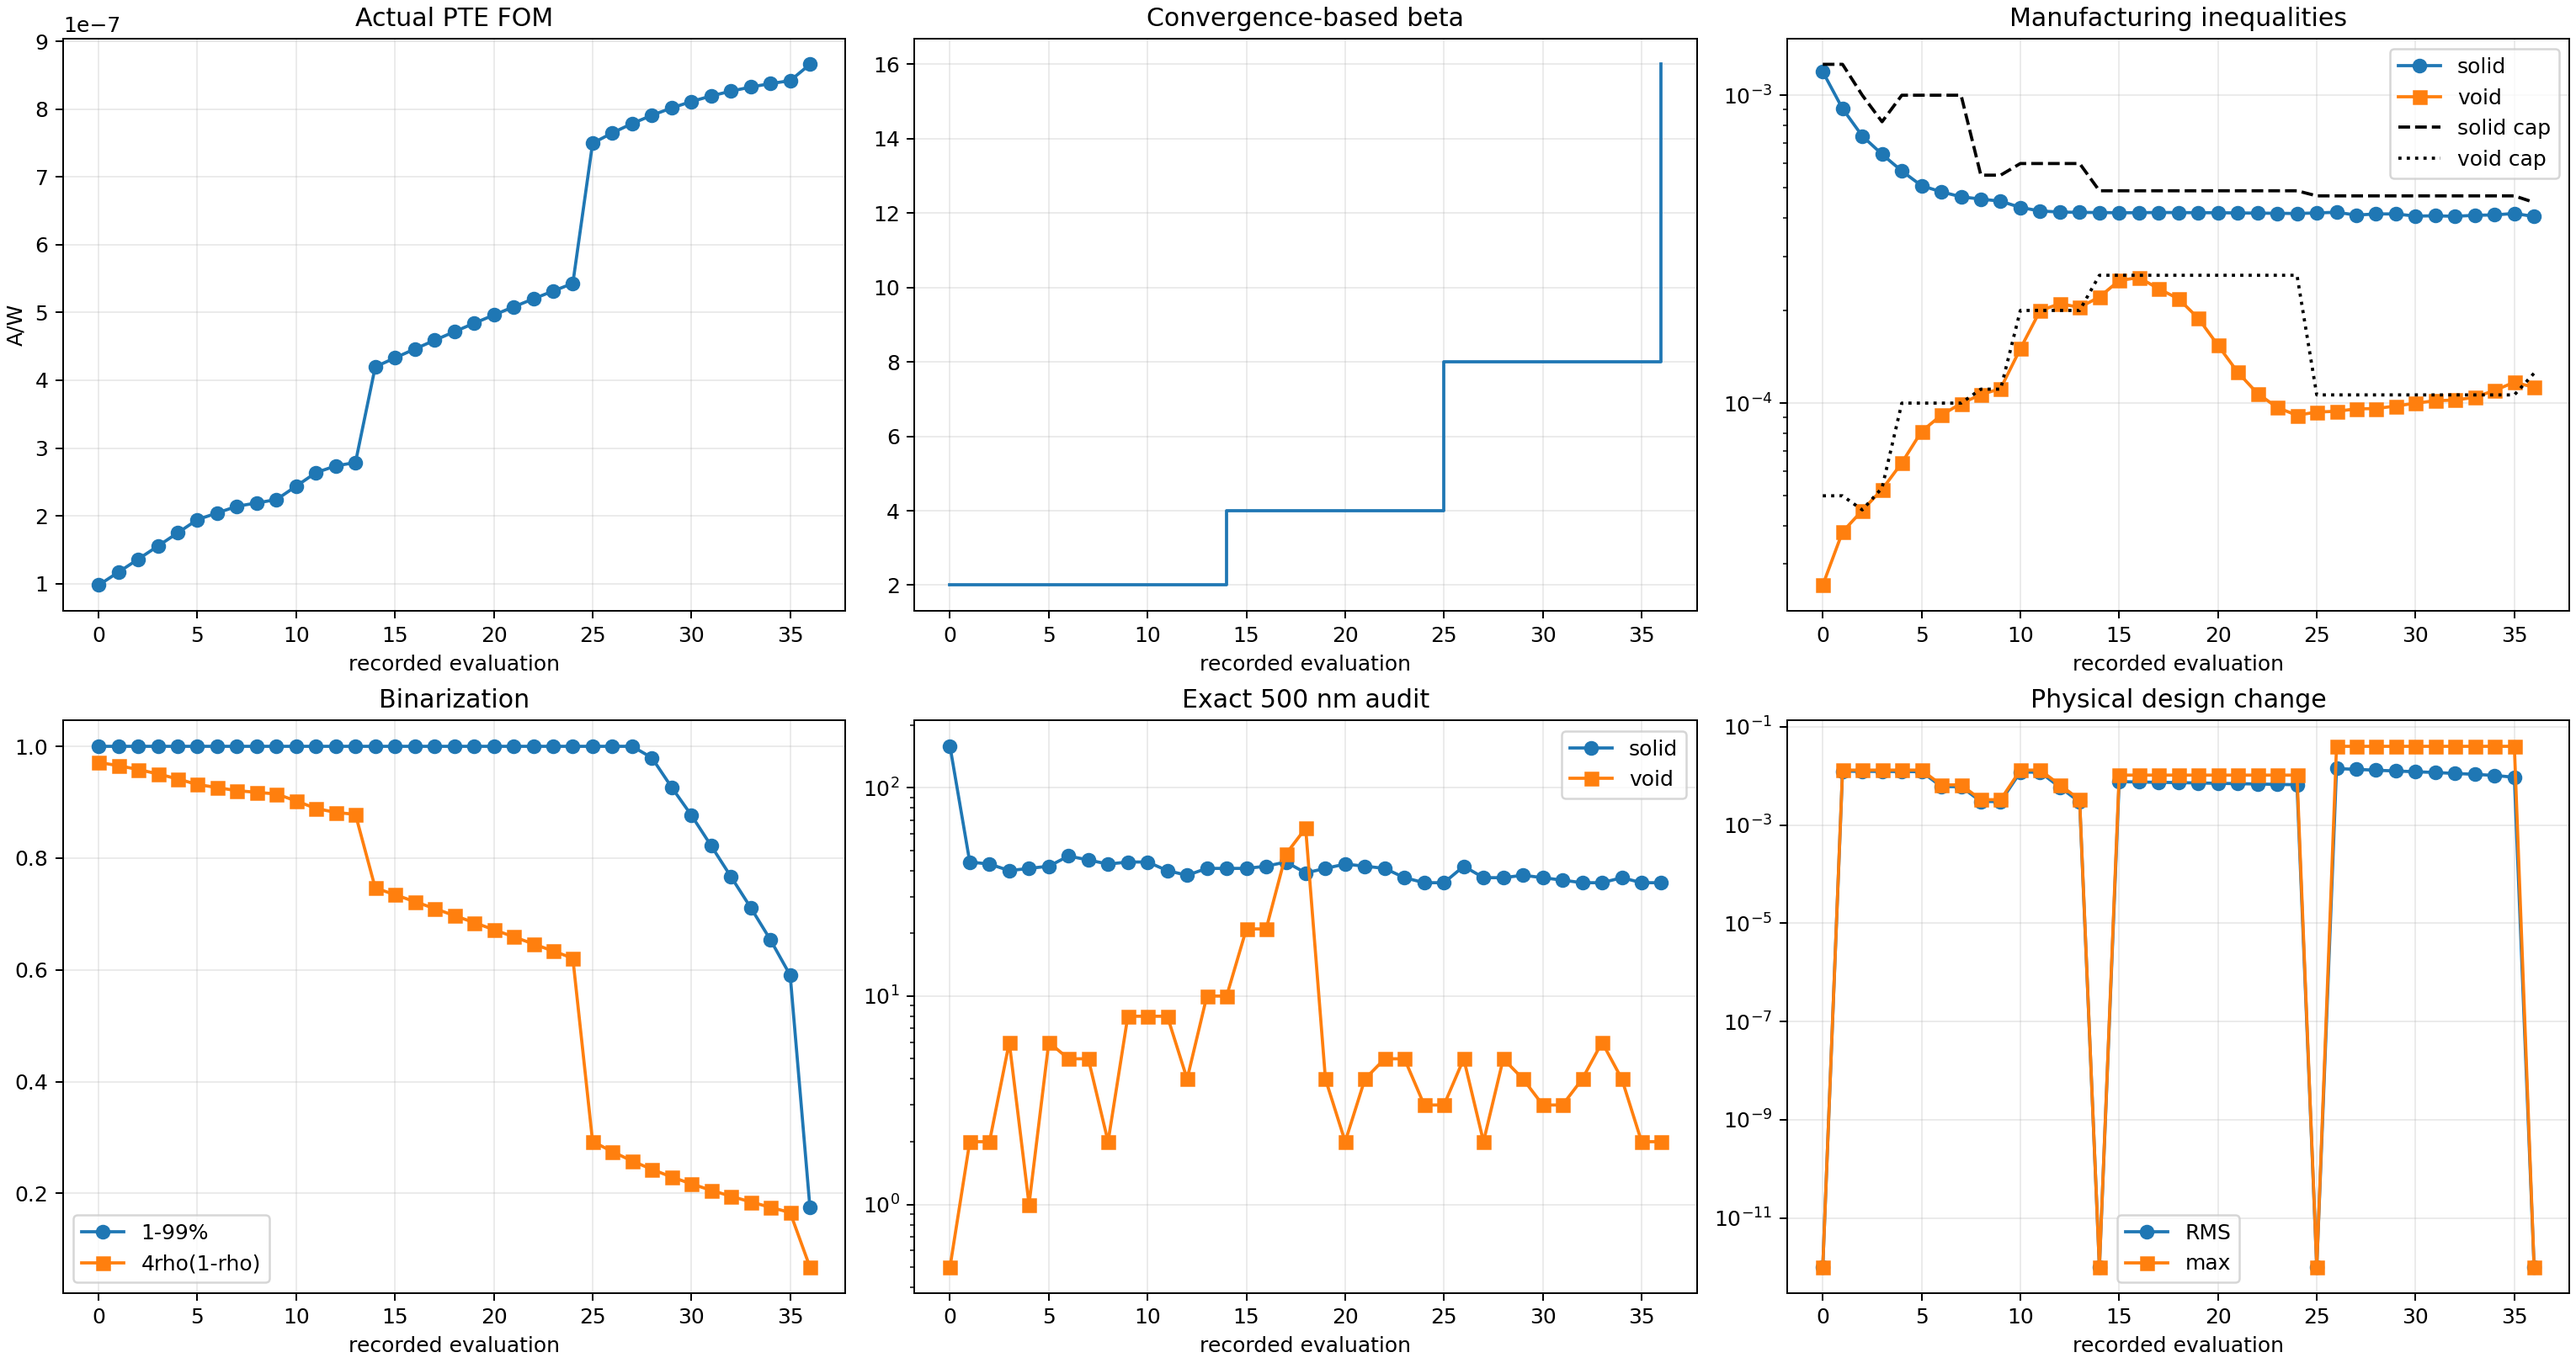
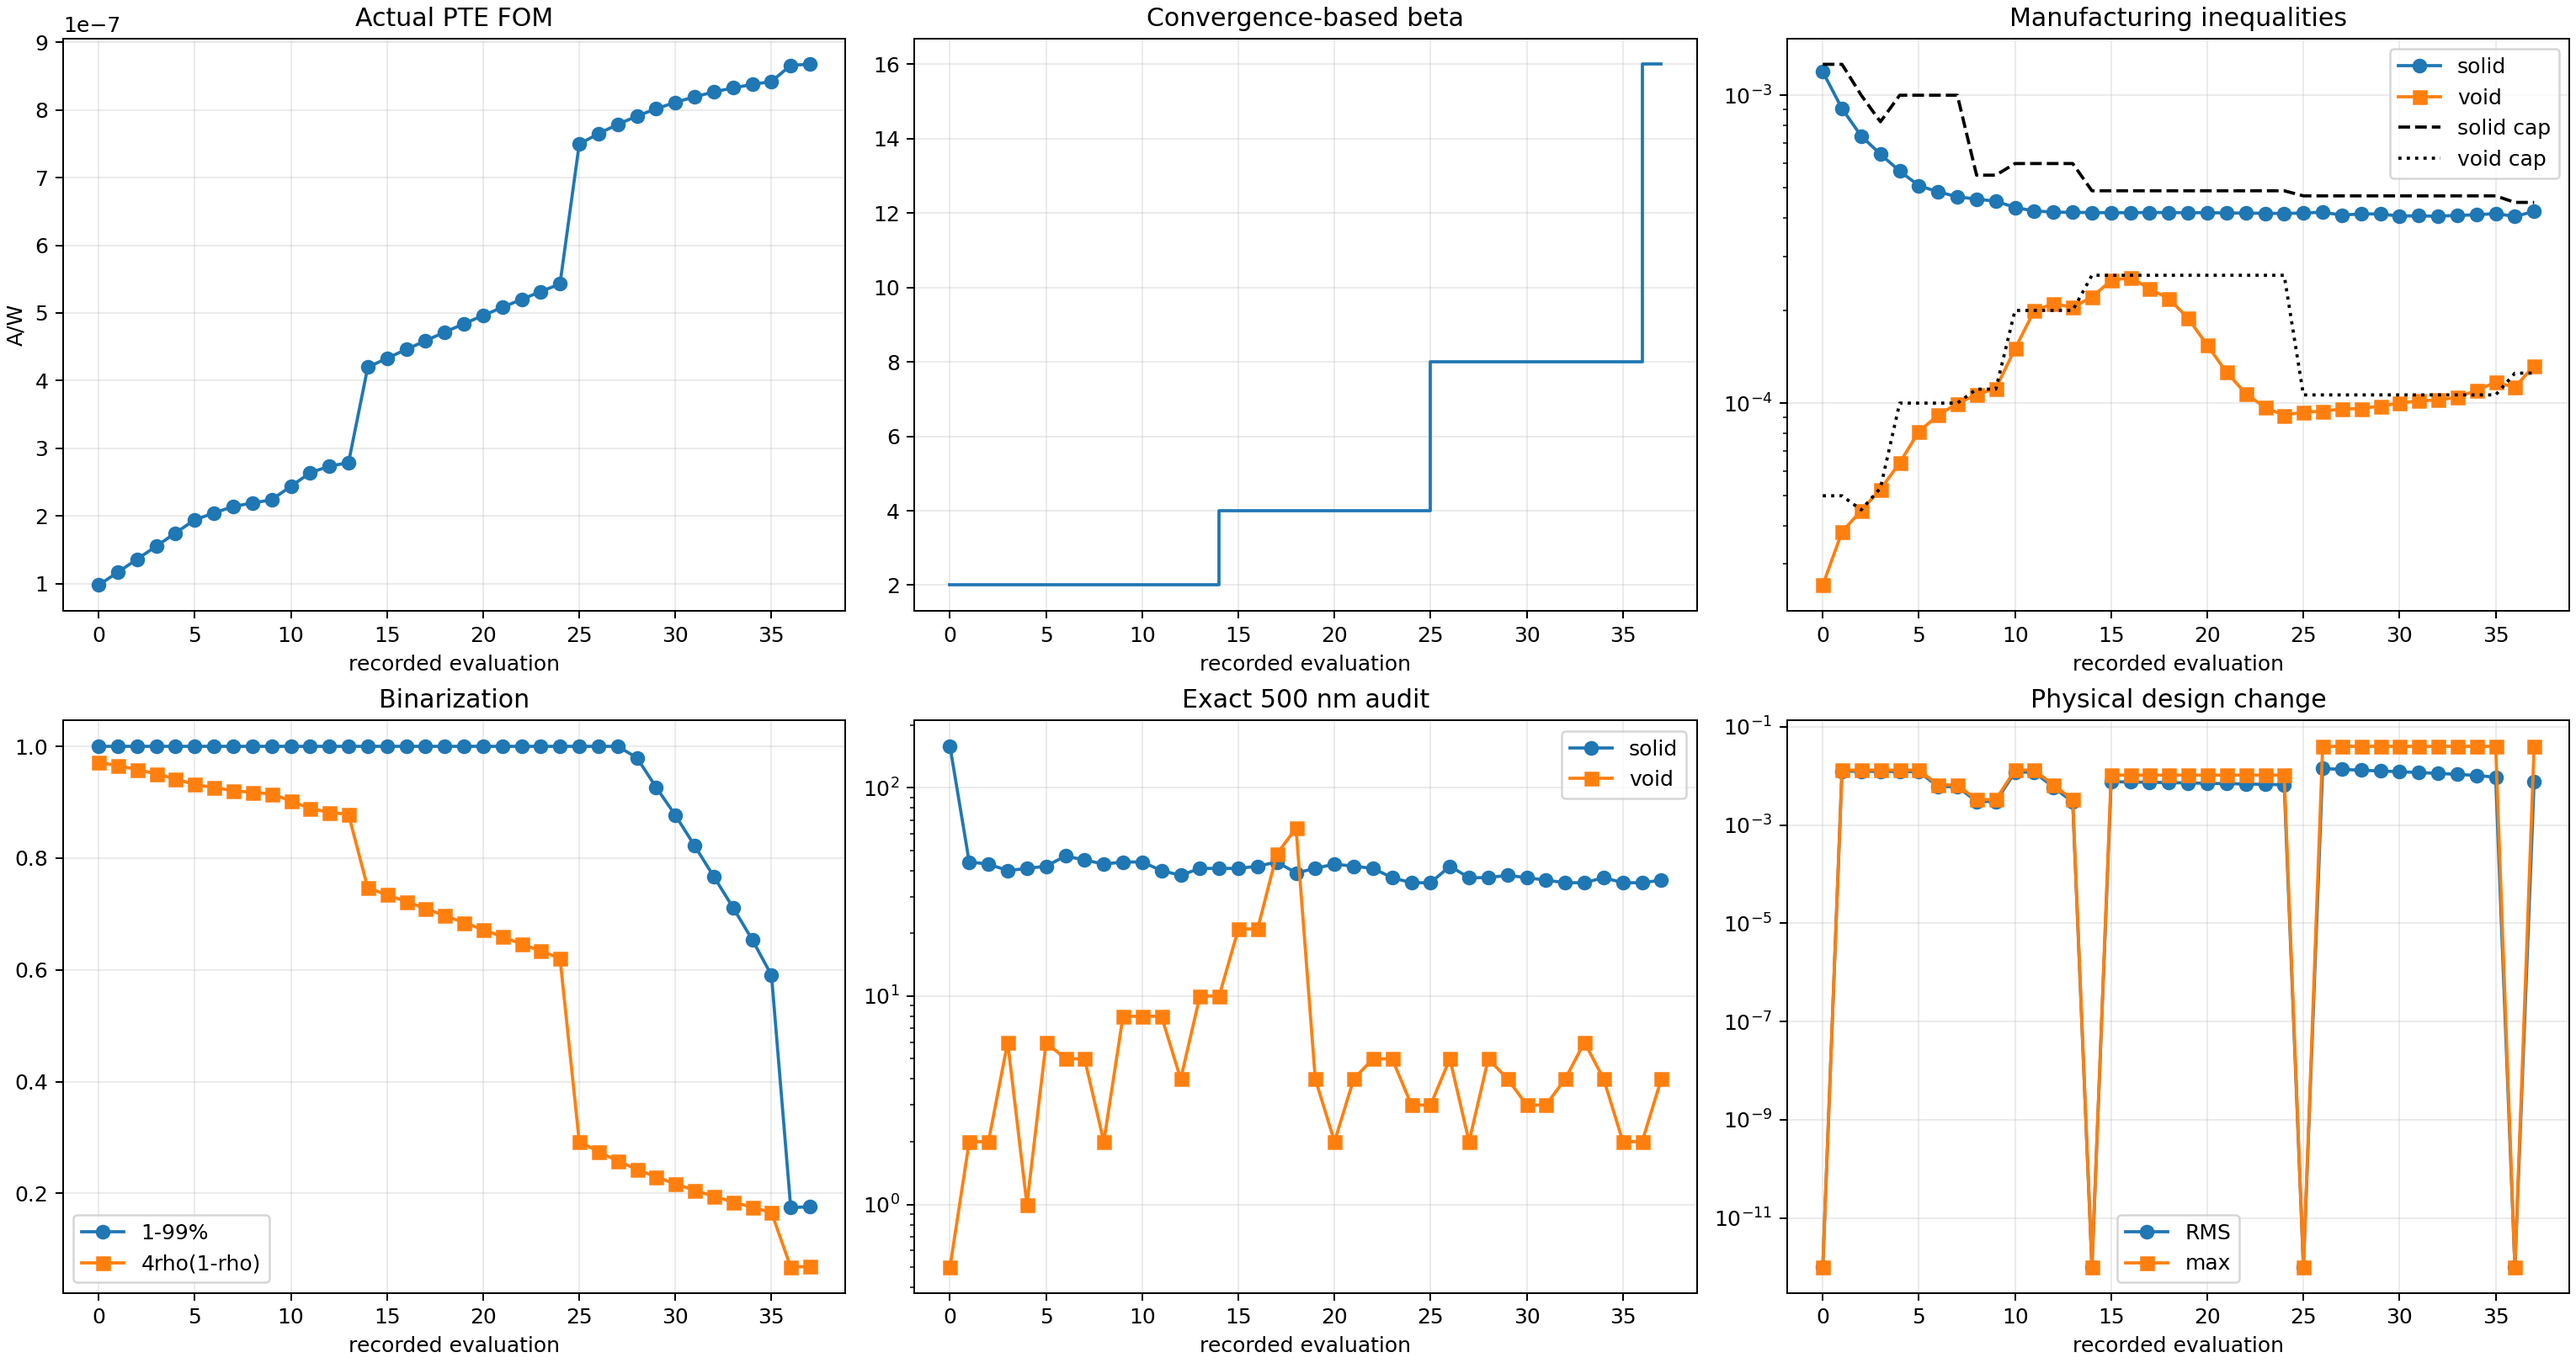
Record Run 005 run005_b016_s001_g034_accepted_mma

diff --git a/photothermal_pte/optimization_runs/run_005_lowbeta_topology_exploration_pilot/results/OPTIMIZATION_REPORT.md b/photothermal_pte/optimization_runs/run_005_lowbeta_topology_exploration_pilot/results/OPTIMIZATION_REPORT.md
@@ -2,12 +2,12 @@
 
 Status: `RUNNING_RUN005_FULL_BINARY_BETA_CONTINUATION`
 
-Current stage: beta=16, accepted stage iteration=0, global iteration=33.
+Current stage: beta=16, accepted stage iteration=1, global iteration=34.
 
 Constraint contract: `soft_disk_opening_500nm_from_iteration_zero_v5`.
 
-Actual FOM: `8.661845202530e-07 A/W`. Fixed-cap solid/void constraints: `4.037680e-04` / `1.126010e-04` with caps `4.486311e-04` / `1.251122e-04`.
+Actual FOM: `8.675116525231e-07 A/W`. Fixed-cap solid/void constraints: `4.194978e-04` / `1.323583e-04` with caps `4.486311e-04` / `1.251122e-04`.
 
-Exact 500 nm bad cells: solid `35`, void `2`. Stage convergence: `False` (need at least 6 accepted updates).
+Exact 500 nm bad cells: solid `36`, void `4`. Stage convergence: `False` (need at least 6 accepted updates).
 
 Beta advances only after the stage FOM/density plateau. The run is not complete until the projected-binary and exact 500 nm gates pass and a fresh thresholded-binary GPU/CUDA evaluation succeeds.
